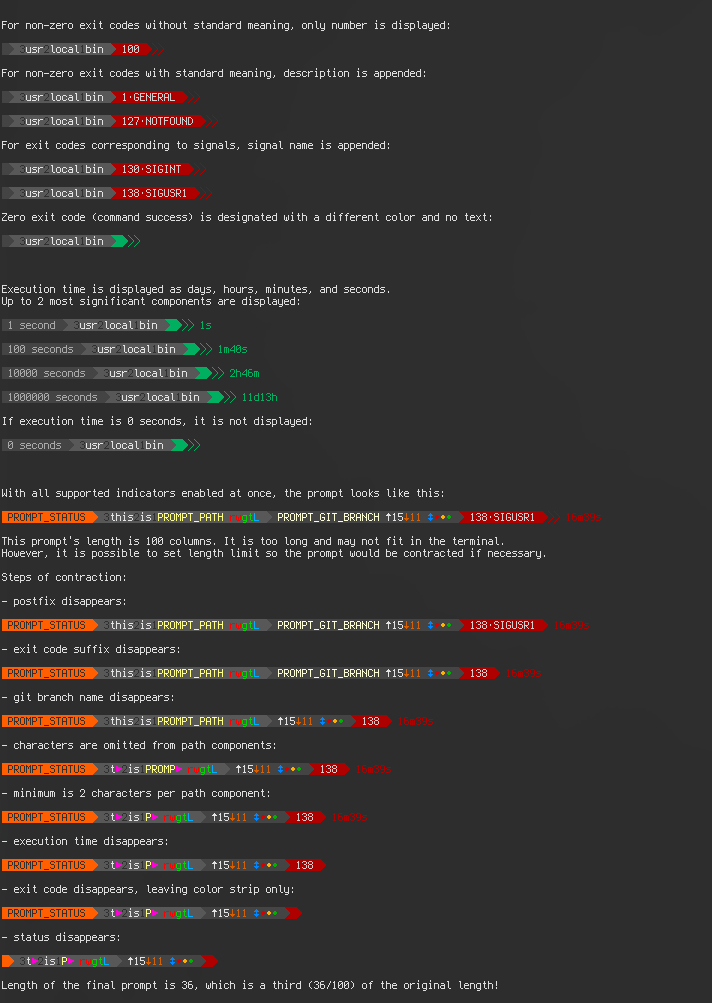
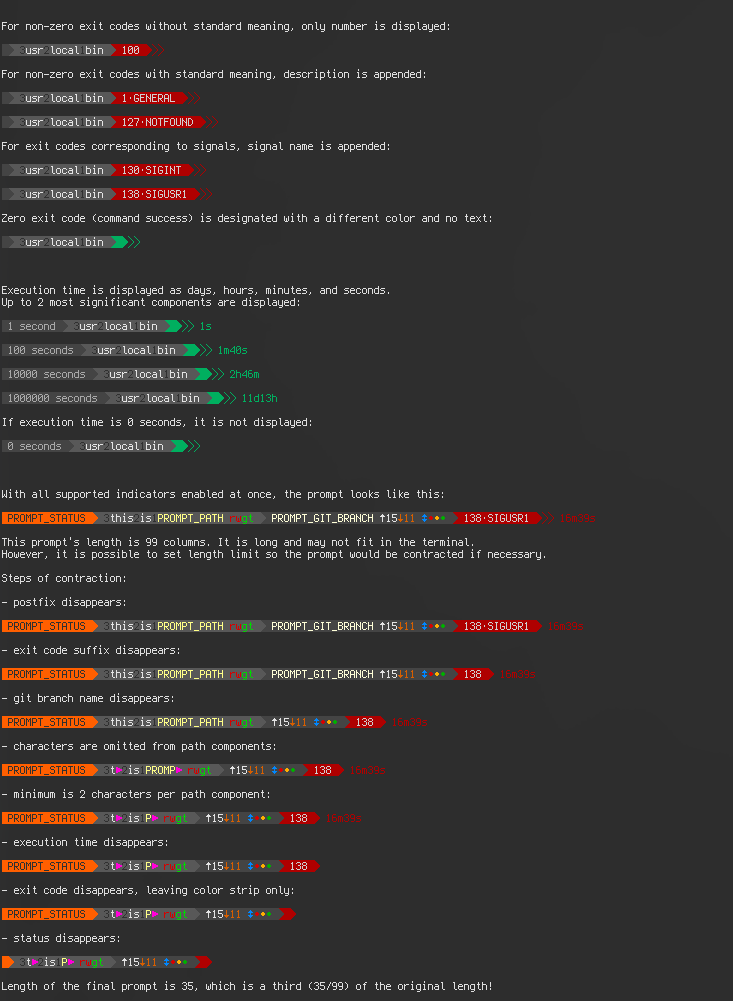
feat: remove symlink directory indicator

Changed region(s): [[0.0, 0.2787, 0.8343, 0.991], [0.0, 0.0, 0.618, 0.2478], [0.309, 0.2168, 0.4017, 0.2478]]

diff --git a/prompt.py b/prompt.py
@@ -24,16 +24,14 @@ DEFAULT_CHAR_PATH_DIR_UNREADABLE = "r" # style['ch_path_dir_unreadable']
 DEFAULT_CHAR_PATH_DIR_UNWRITABLE = "w" # style['ch_path_dir_unwritable']
 DEFAULT_CHAR_PATH_DIR_SETGUID    = "g" # style['ch_path_dir_setguid']
 DEFAULT_CHAR_PATH_DIR_STICKY     = "t" # style['ch_path_dir_sticky']
-DEFAULT_CHAR_PATH_DIR_SYMLINK    = "L" # style['ch_path_dir_symlink']
 
 DEFAULT_COLOR_PATH_DIR_FG = 254      # style['col_path_dir_fg']
 DEFAULT_COLOR_PATH_GIT_DIR_FG = 228  # style['col_path_git_dir_fg']
 DEFAULT_COLOR_PATH_SEP_FG = 236      # style['col_path_sep_fg']
 DEFAULT_COLOR_PATH_OMIT_FG = 200     # style['col_path_omit_fg']
 DEFAULT_COLOR_PATH_NONPRINT_FG = 196 # style['col_path_nonprint_fg']
-DEFAULT_COLOR_PATH_NOPERM_FG = 196   # style['col_path_noperm_fg']
+DEFAULT_COLOR_PATH_NOPERM_FG = 160   # style['col_path_noperm_fg']
 DEFAULT_COLOR_PATH_PERM_FG = 40      # style['col_path_perm_fg']
-DEFAULT_COLOR_PATH_TYPE_FG = 39      # style['col_path_type_fg']
 DEFAULT_COLOR_PATH_BG = 240          # style['col_path_bg']
 
 ##################
@@ -112,7 +110,7 @@ class Prompt:
     """
     def __init__(self, status: str, path: str,
                  path_dir_unreadable: bool=False, path_dir_unwritable: bool=False,
-                 path_dir_setguid: bool=False, path_dir_sticky: bool=False, path_dir_symlink: bool=False,
+                 path_dir_setguid: bool=False, path_dir_sticky: bool=False,
                  git_branch: str=None, path_git_dir_depth: str=None,
                  git_ahead: str=None, git_behind: str=None, git_merging: bool=False,
                  git_untracked: bool=False, git_modified: bool=False, git_staged: bool=False,
@@ -130,7 +128,6 @@ class Prompt:
         self._path_dir_unwritable = path_dir_unwritable
         self._path_dir_setguid = path_dir_setguid
         self._path_dir_sticky = path_dir_sticky
-        self._path_dir_symlink = path_dir_symlink
 
         self._git_branch = git_branch
         try:
@@ -154,7 +151,7 @@ class Prompt:
         assert self._max_length is None or self._max_length > 0
 
         for prop in ['style', 'status', 'path', 'path_dir_unreadable', 'path_dir_unwritable',
-                     'path_dir_setguid', 'path_dir_sticky', 'path_dir_symlink', 'path_git_dir_depth',
+                     'path_dir_setguid', 'path_dir_sticky', 'path_git_dir_depth',
                      'git_branch', 'git_ahead', 'git_behind',
                      'git_merging', 'git_untracked', 'git_modified', 'git_staged',
                      'exit_code', 'exec_time', 'root', 'max_length']:
@@ -246,7 +243,6 @@ class Prompt:
         CHAR_PATH_DIR_UNWRITABLE = self._style.get('ch_path_dir_unwritable', DEFAULT_CHAR_PATH_DIR_UNWRITABLE)
         CHAR_PATH_DIR_SETGUID = self._style.get('ch_path_dir_setguid', DEFAULT_CHAR_PATH_DIR_SETGUID)
         CHAR_PATH_DIR_STICKY = self._style.get('ch_path_dir_sticky', DEFAULT_CHAR_PATH_DIR_STICKY)
-        CHAR_PATH_DIR_SYMLINK = self._style.get('ch_path_dir_symlink', DEFAULT_CHAR_PATH_DIR_SYMLINK)
 
         assert len(CHAR_PATH_OMIT) == 1
         assert len(CHAR_PATH_NONPRINT) == 1
@@ -254,7 +250,6 @@ class Prompt:
         assert len(CHAR_PATH_DIR_UNWRITABLE) == 1
         assert len(CHAR_PATH_DIR_SETGUID) == 1
         assert len(CHAR_PATH_DIR_STICKY) == 1
-        assert len(CHAR_PATH_DIR_SYMLINK) == 1
 
         COLOR_PATH_DIR_FG = self._style.get('col_path_dir_fg', DEFAULT_COLOR_PATH_DIR_FG)
         COLOR_PATH_GIT_DIR_FG = self._style.get('col_path_git_dir_fg', DEFAULT_COLOR_PATH_GIT_DIR_FG)
@@ -263,7 +258,6 @@ class Prompt:
         COLOR_PATH_NONPRINT_FG = self._style.get('col_path_nonprint_fg', DEFAULT_COLOR_PATH_NONPRINT_FG)
         COLOR_PATH_NOPERM_FG = self._style.get('col_path_noperm_fg', DEFAULT_COLOR_PATH_NOPERM_FG)
         COLOR_PATH_PERM_FG = self._style.get('col_path_perm_fg', DEFAULT_COLOR_PATH_PERM_FG)
-        COLOR_PATH_TYPE_FG = self._style.get('col_path_type_fg', DEFAULT_COLOR_PATH_TYPE_FG)
         COLOR_PATH_BG = self._style.get('col_path_bg', DEFAULT_COLOR_PATH_BG)
 
         CHAR_GIT_AHEAD = self._style.get('ch_git_ahead', DEFAULT_CHAR_GIT_AHEAD)
@@ -326,10 +320,9 @@ class Prompt:
             length += 1 + 1 + 1 + 1 # triangle, space, slash, space
 
         if self._path_dir_unreadable or self._path_dir_unwritable \
-                or self._path_dir_setguid or self._path_dir_sticky or self._path_dir_symlink:
+                or self._path_dir_setguid or self._path_dir_sticky:
             length += int(self._path_dir_unreadable) + int(self._path_dir_unwritable) + \
-                    int(self._path_dir_setguid) + int(self._path_dir_sticky) + \
-                    int(self._path_dir_symlink) + 1 # char, char, char, char, char, space
+                    int(self._path_dir_setguid) + int(self._path_dir_sticky) + 1 # char, char, char, char, char, space
 
         length_git_status_block = 0
         length_git_branch = 0
@@ -482,7 +475,7 @@ class Prompt:
         self._str += " "
 
         if self._path_dir_unreadable or self._path_dir_unwritable \
-                or self._path_dir_setguid or self._path_dir_sticky or self._path_dir_symlink:
+                or self._path_dir_setguid or self._path_dir_sticky:
             if self._path_dir_unreadable or self._path_dir_unwritable:
                 self._str += color1(COLOR_PATH_NOPERM_FG)
 
@@ -500,11 +493,6 @@ class Prompt:
 
                 if self._path_dir_sticky:
                     self._str += CHAR_PATH_DIR_STICKY
-
-            if self._path_dir_symlink:
-                self._str += color1(COLOR_PATH_TYPE_FG)
-
-                self._str += CHAR_PATH_DIR_SYMLINK
 
             self._str += " "
 
@@ -558,7 +546,6 @@ if __name__ == '__main__':
                      path_dir_unwritable='PROMPT_DIR_UNWRITABLE' in os.environ,
                      path_dir_setguid='PROMPT_DIR_SETGUID' in os.environ,
                      path_dir_sticky='PROMPT_DIR_STICKY' in os.environ,
-                     path_dir_symlink='PROMPT_DIR_SYMLINK' in os.environ,
                      git_branch=os.environ.get('PROMPT_GIT_BRANCH', None),
                      path_git_dir_depth=os.environ.get('PROMPT_GIT_DIR_DEPTH', None),
                      git_ahead=os.environ.get('PROMPT_GIT_AHEAD', None),
